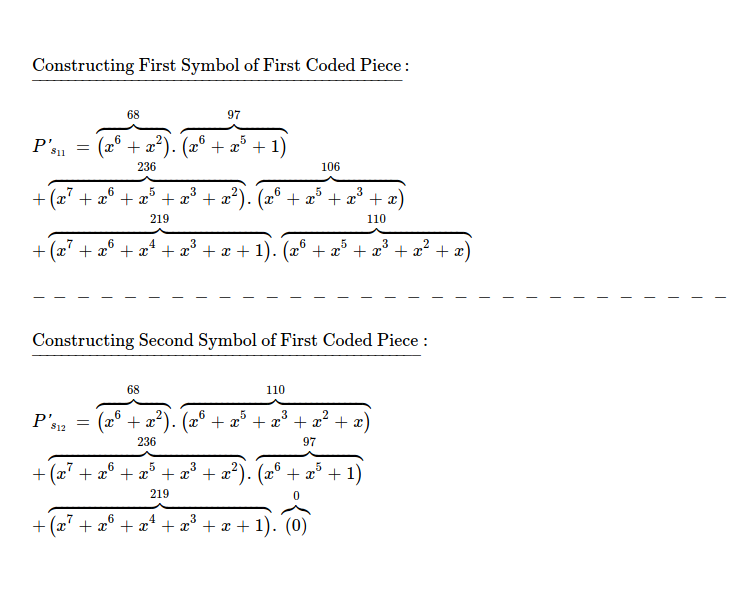
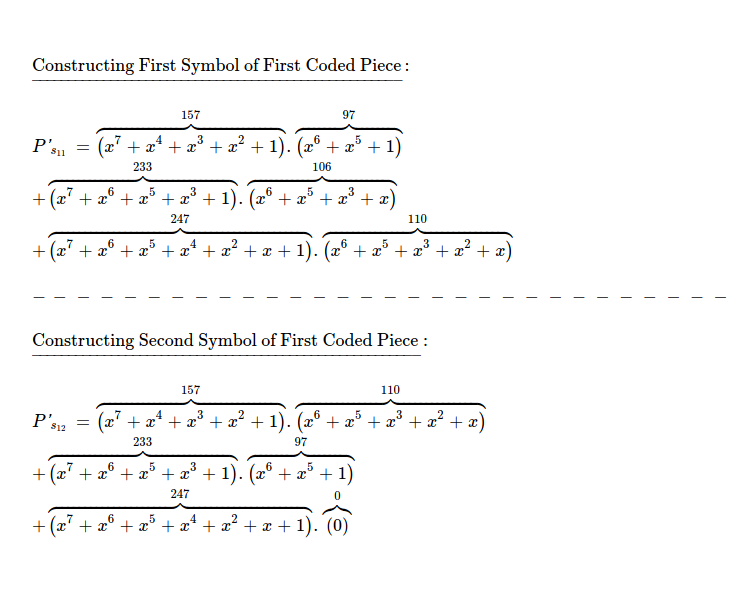
rlnc-in-depth coding [fix]

diff --git a/pages/rlnc-in-depth.html b/pages/rlnc-in-depth.html
@@ -142,7 +142,7 @@
                     & use as first coding vector.
                 </p>
                 <div class="microlight">
- >>> coding_vector = [68, 236, 219]
+ >>> coding_vector = [157, 233, 247]
                 </div>
                 <p class="blogText">
                     Coding is simply performing this matrix multiplication.
@@ -165,16 +165,37 @@
                     elements also ends up in same field. I'll construct both symbols of first coded piece.
                 </p>
                 <div class="microlight">
- >>> (gf256(68) * gf256(97)) + (gf256(236) * gf256(106)) + (gf256(219) * gf256(110))
- GF(147, order=2^8) # symbol_1
-
- >>> gf256(68) * gf256(110) + gf256(236) * gf256(97) + gf256(219) * gf256(0)
- GF(130, order=2^8) # symbol_2
+ >>> gf256(157) * gf256(97) + gf256(233) * gf256(106) + gf256(247) * gf256(110)
+ GF(64, order=2^8)
+ >>> gf256(157) * gf256(110) + gf256(233) * gf256(97) + gf256(247) * gf256(0)
+ GF(118, order=2^8)
                 </div>
                 <p class="blogText">
-                    First coded piece along with randomly chosen coding vector used for construction.
+                    First coded piece along with randomly chosen coding vector, used for construction.
                 </p>
                 <img class="imgCenter" src="../images/rlnc-in-depth-coding-4.png">
+                <p class="blogText">
+                    This way, I again randomly draw 3 elements from GF(2**8), which I use for constructing
+                    second coded piece. This time I get <span class="highlight">[160, 28, 233]</span> & while
+                    trying to construct both symbols of second coded piece, I follow aforementioned formula of
+                    symbol by symbol addition.
+                </p>
+                <div class="microlight">
+ >>> gf256(160) * gf256(97) + gf256(28) * gf256(106) + gf256(233) * gf256(110)
+ GF(185, order=2^8)
+ >>> gf256(160) * gf256(110) + gf256(28) * gf256(97) + gf256(233) * gf256(0)
+ GF(176, order=2^8)
+                </div>
+                <p class="blogText">
+                    Second coding vector & respective coded piece is here. One thing to note, these two need
+                    to be kept together & when transfered over wire to some other peer this association
+                    must not be lost otherwise piece won't be helpful while attempting to recode/ decode.
+                </p>
+                <img class="imgCenter" src="../images/rlnc-in-depth-coding-5.png">
+                <p class="blogText">
+                    Similarly I construct two more coded pieces.
+                </p>
+                <img class="imgCenter" src="../images/rlnc-in-depth-coding-6.png">
             </article>
         </div>
     </div>
